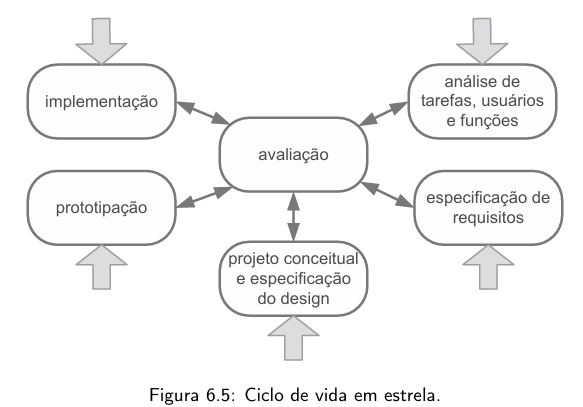
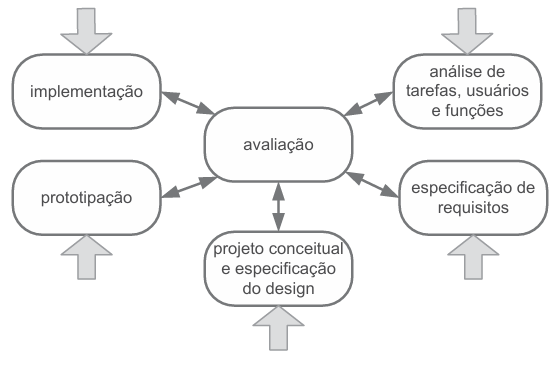
Adição de fotos do livro

Changed region(s): [[0.0, 0.0, 1.0, 1.0], [0.4296, 0.3558, 0.583, 0.4151]]

diff --git a/docs/planejamento/processo-design.md b/docs/planejamento/processo-design.md
@@ -1,46 +1,66 @@
 # Processo de Design
 
-## Introdução
+## Introdução [[1]](#FONTE1)
 Os processos de design de IHC são ciclos iterativos que envolvem três atividades básicas: Análise da situação atual (identificação do problema), síntese de uma intervenção (projeto) e avaliação da intervenção. A iteração permite refinamentos sucessivos, onde o designer aprende mais sobre o problema e a solução a cada ciclo
 
 
 ## Processos
 
-### 1. Processo Simples
+### 1. Processo Simples [[2]](#FONTE2)
 - Descrição: É um modelo que organiza o design em quatro etapas básicas: identificar necessidades e definir requisitos, (re)design, construir uma versão interativa e avaliar. É um processo altamente iterativo que foca na criação de protótipos para que o usuário possa participar ativamente da avaliação
 
 - Vantagens: Proporciona agilidade e velocidade, sendo ideal para equipes experientes que já possuem intuição de design consolidada e não precisam de guias prescritivos
 
 - Desvantagens: Pode ser vago para iniciantes, pois a falta de um passo a passo detalhado pode causar duvidas de como realizar cada etapa e dificulta a rastreabilidade
 
-#### Ciclo
+#### A representação do processo pode ser visto na figura a baixo
 ![Imagem Processo simples](../assets/ModeloSimplesIHC.png)
 
-### 2. Ciclo de vida Estrela
+### 2. Ciclo de vida Estrela [[3]](#FONTE3)
 - Descrição: Este modelo coloca a avaliação como ponto central, conectando as outras cinco atividades: análise de tarefas/usuários, especificação de requisitos, projeto conceitual, prototipação e implementação
 - Vantagens: Oferece extrema flexibilidade, permitindo que o designer inicie por qualquer atividade dependendo do estágio de desenvolvimento do artefato. Garante a qualidade contínua, pois exige que cada etapa passe obrigatoriamente pela avaliação central antes continuar
 
 - Desvantagens: A ausência de uma sequência rígida pode ser uma característica negativa para equipes inexperientes, dificultando a escolha de qual caminho seguir
 
-#### Ciclo
+#### A representação do ciclo de vida pode ser visto na figura a baixo
 ![Imagem Processo Estrela](../assets/CicloEstrelaIHC.png)
 
-### 3. Ciclo de vida para a engenharia de usabilidade (Mayhew)
+### 3. Ciclo de vida para a engenharia de usabilidade (Mayhew) [[4]](#FONTE4)
 - Descrição: Propõe uma visão holística, dividida em três fases principais: Análise de requisitos, design, avaliação e desenvolvimento (que é estruturado em três níveis de detalhe: Modelo conceitual, padrões de design e design detalhado) e instalação.
 
 - Vantagens: É um roteiro seguro para iniciantes, oferecendo alto detalhamento de forma a evitar que etapas importantes sejam esquecidas e auxiliando na rastreabilidade. Facilita o gerenciamento da complexidade ao tratar uma parte do problema por vez em diferentes níveis
 
 - Desvantagens: Pode ser percebido como mais lento que os outros devido ao grande número de passos e necessidade de documentação rigorosa
 
-#### Ciclo
+#### A representação do ciclo de vida pode ser visto na figura a baixo
 ![Imagem Processo Mayhew](../assets/CicloMayhewIHC.png)
 
 
 ## Motivações para a escolha
 A escolha pelo modelo de Mayhew justifica-se pelo fato de o grupo ser iniciante no planejamento de avaliação de IHC. A estrutura altamente detalhada e prescritiva de Mayhew ajudará a garantir que a análise de requisitos e as metas de usabilidade sejam verificadas de forma sistemática em três níveis de design, reduzindo o risco de falhas por falta de experiência
 
+## Fontes
+## <a id="FONTE1">1 - Fontes Processo de Design.</a> 
+![Imagem Processo Simples](../assets/Imagens-livro/ProcessoDesign/ProcessoDeDesign.png)
+
+
+## <a id="FONTE2">2 - Fontes Processo Simples.</a> 
+![Imagem Processo Simples](../assets/Imagens-livro/ProcessoDesign/modeloSimples.png)
+
+
+## <a id="FONTE3">3 - Fontes Ciclo de vida em estrela.</a> 
+![Imagem Processo Estrela](../assets/Imagens-livro/ProcessoDesign/CicloEstrela.png)
+
+![Imagem Processo Estrela](../assets/Imagens-livro/ProcessoDesign/CicloEstrela2.png)
+
+## <a id="FONTE4">4 - Fontes Ciclo de vida de usabilidade.</a> 
+![Imagem Processo Mayhew](../assets/Imagens-livro/ProcessoDesign/Mayhew.png)
+
+![Imagem Processo Mayhew](../assets/Imagens-livro/ProcessoDesign/Mayhew2.png)
+
+
 ## Referências Bibliográficas
-> <a id="REF1" href="#anchor_1">1.</a>Barbosa, S. D. J.; Silva, B. S. da; Silveira, M. S.; Gasparini, I.; Darin, T.; Barbosa, G. D. J. (2021)
+> <a id="REF1">5.</a>Barbosa, S. D. J.; Silva, B. S. da; Silveira, M. S.; Gasparini, I.; Darin, T.; Barbosa, G. D. J. (2021)
 Interação Humano-Computador e Experiência do usuário. Autopublicação. ISBN: 978-65-00-19677-1
 
 
@@ -49,3 +69,4 @@ Interação Humano-Computador e Experiência do usuário. Autopublicação. ISBN
 | Versão |    Data    |                Descrição                 |                    Autor(es)                     |                 Revisor(es)                  |
 | ------ | ---------- | ------------------------------------------- | ------------------------------------------------ | ------------------------------------------- |
 | `1.0`  | 10/04/2026 | Criação da página de Processo de Design. | [Matheus Pinheiro](https://github.com/matheus-06) | [Ígor Veras](https://github.com/igorvdaniel) |
+| `1.1`  | 23/04/2026 | Adição de fotos do livro. | [Matheus Pinheiro](https://github.com/matheus-06) | [](https://github.com/) |
